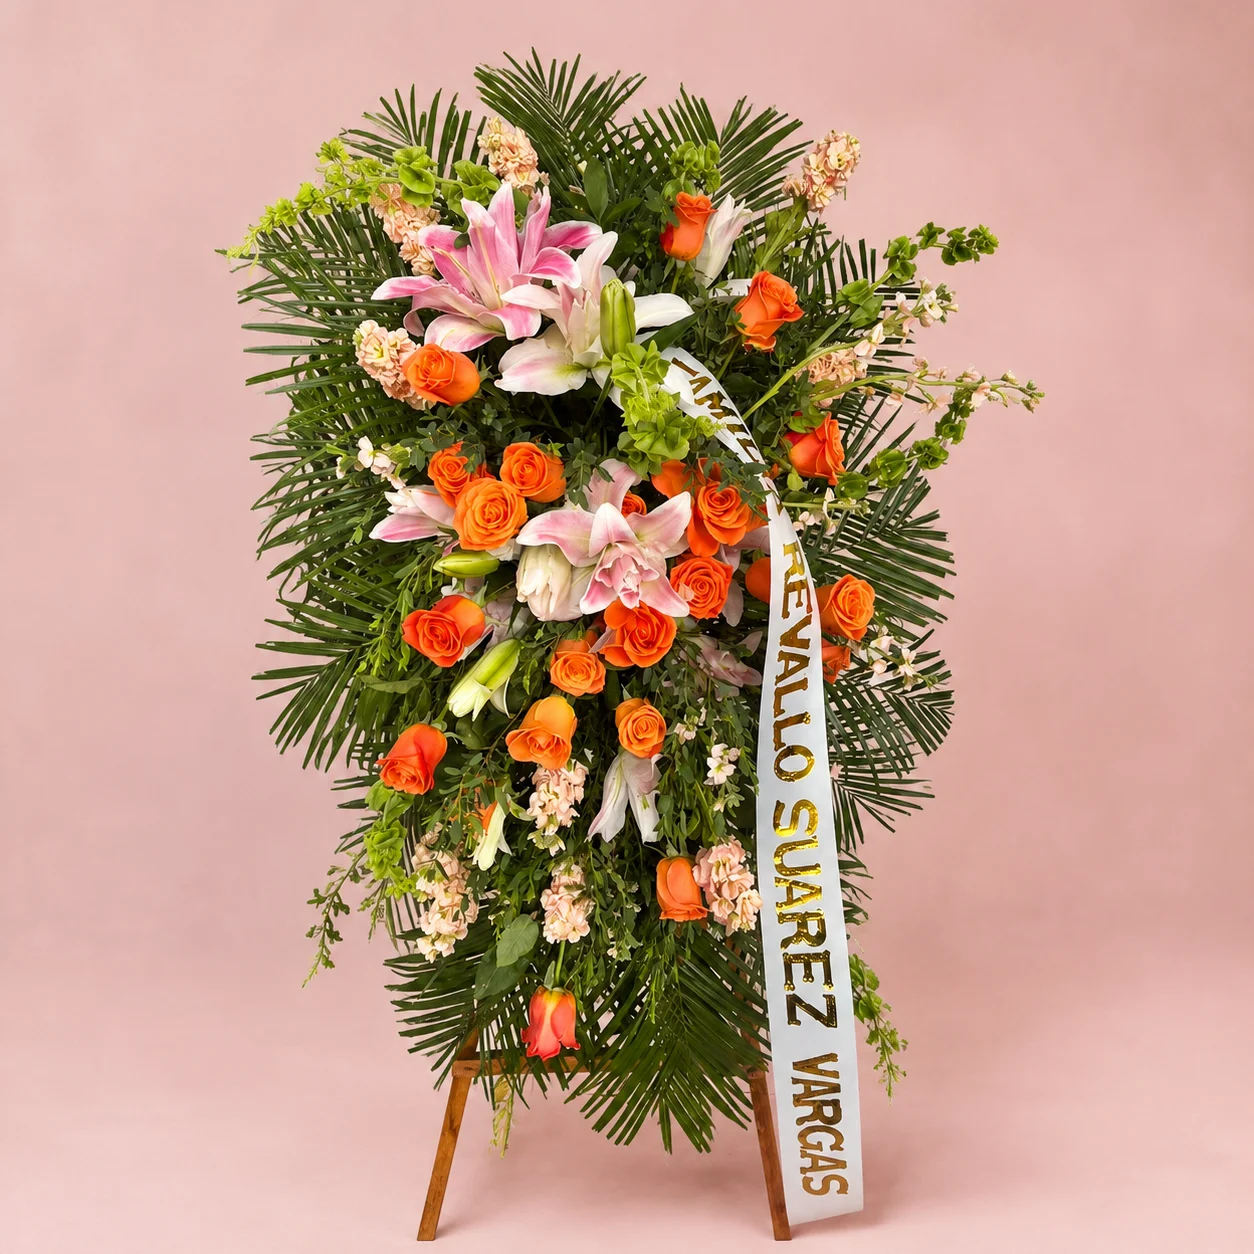
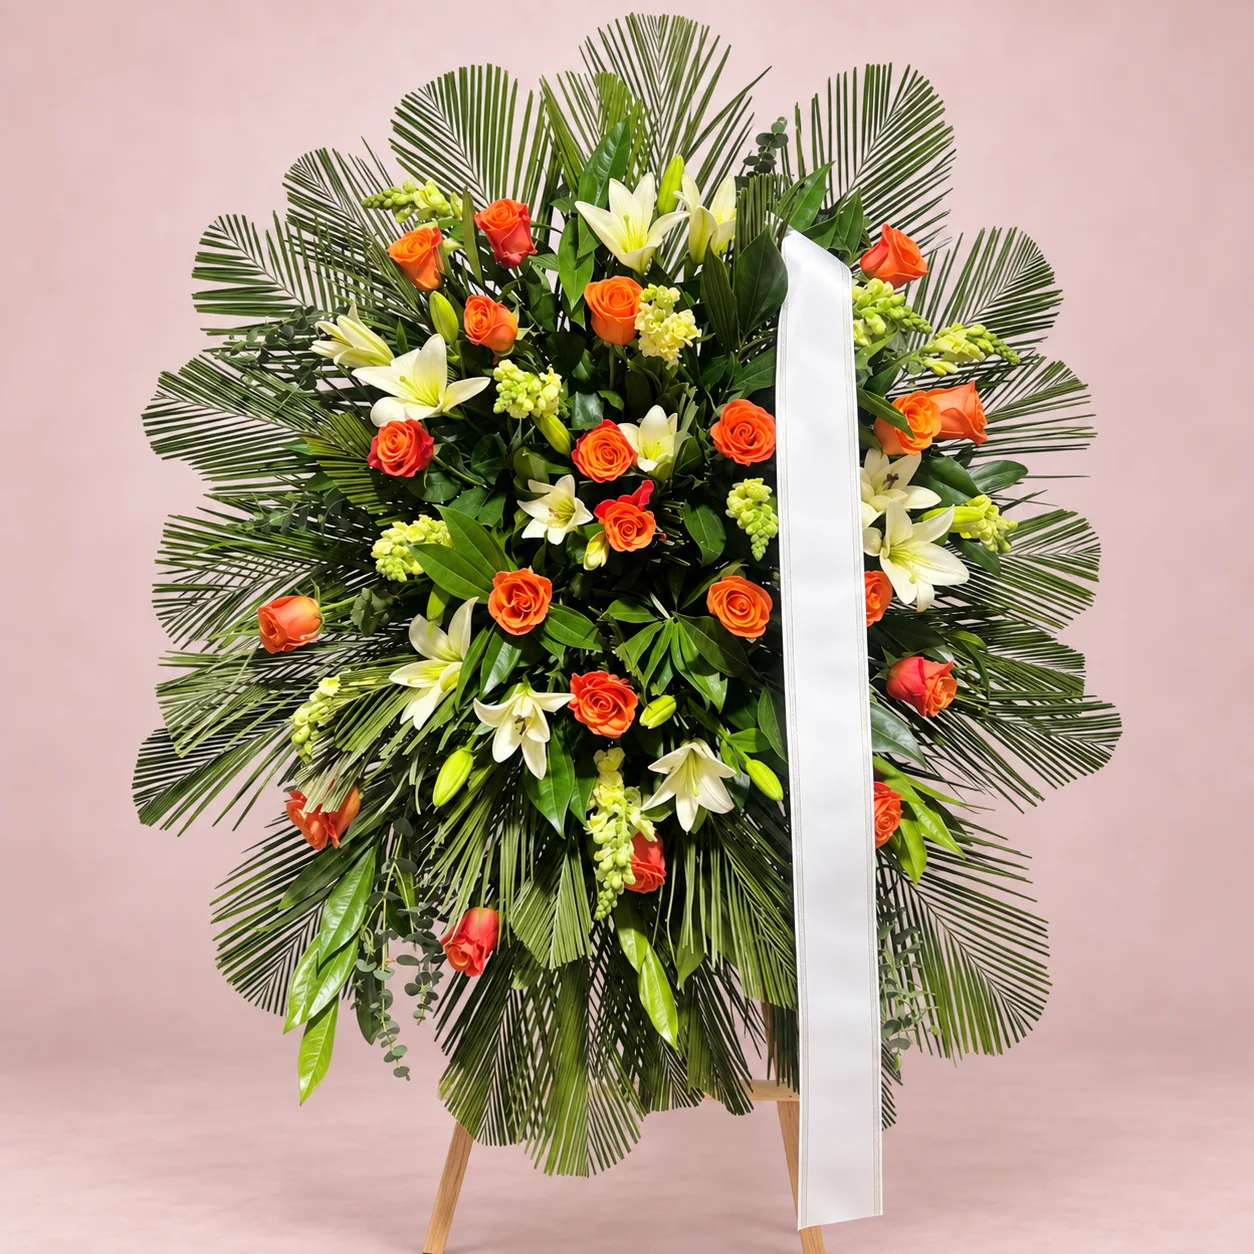
.

diff --git a/js/landing.js b/js/landing.js
@@ -1184,10 +1184,10 @@ const products = [
             {
                 id: 145,
                 name: "Eterno Recuerdo",
-                price: 256000,
+                price: 315000,
                 description: "Trípode fúnebre con rosas naranjas, lirios blancos, hortensias verdes y variedad de flores con listón personalizado. Combinación de colores cálidos que celebran la vida. Un homenaje distinguido y memorable.",
                 image: "../assets/foto145.webp",
-                categories: ["funebre", "precio-medio"]
+                categories: ["funebre", "precio-alto"]
             },
             {
                 id: 146,
@@ -1216,7 +1216,7 @@ const products = [
             {
                 id: 149,
                 name: "Trípode Fúnebre",
-                price: 272000,
+                price: 330000,
                 description: "Trípode fúnebre con lirios blancos, rosas blancas, claveles, pompones y follaje verde con listón personalizado y lazo blanco. Un tributo clásico y solemne que honra con dignidad y respeto.",
                 image: "../assets/foto149.webp",
                 categories: ["funebre", "precio-alto"]

diff --git a/catalogo.html b/catalogo.html
@@ -1330,10 +1330,10 @@ const products = [
             {
                 id: 145,
                 name: "Eterno Recuerdo",
-                price: 294000,
+                price: 315000,
                 description: "Trípode fúnebre con rosas naranjas, lirios blancos, hortensias verdes y variedad de flores con listón personalizado. Combinación de colores cálidos que celebran la vida. Un homenaje distinguido y memorable.",
                 image: "assets/foto145.webp",
-                categories: ["funebre", "precio-medio"]
+                categories: ["funebre", "precio-alto"]
             },
             {
                 id: 146,
@@ -1362,7 +1362,7 @@ const products = [
             {
                 id: 149,
                 name: "Trípode Fúnebre",
-                price: 313000,
+                price: 330000,
                 description: "Trípode fúnebre con lirios blancos, rosas blancas, claveles, pompones y follaje verde con listón personalizado y lazo blanco. Un tributo clásico y solemne que honra con dignidad y respeto.",
                 image: "assets/foto149.webp",
                 categories: ["funebre", "precio-alto"]
